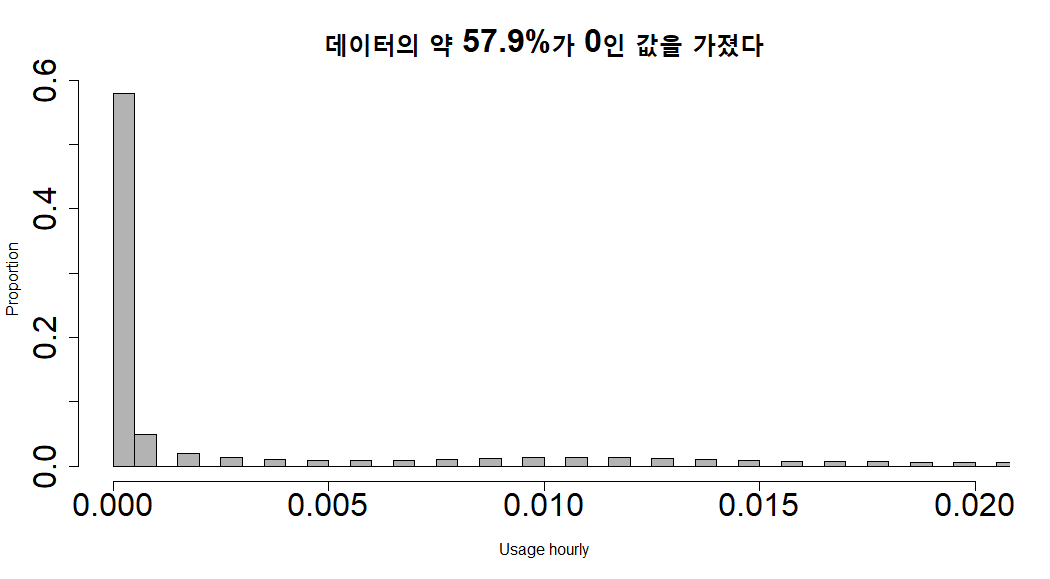
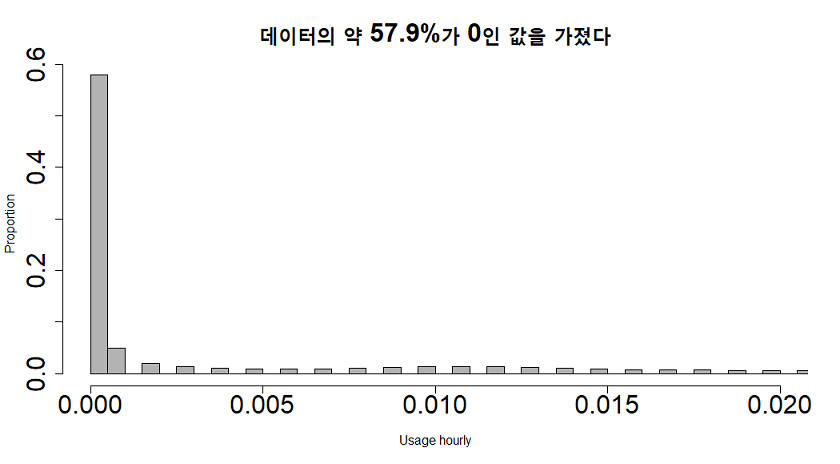
update kwater post
1. 이미지 크기 조정
2. 목차 링크 오타 수정

diff --git a/2018-07-17-수자원공사_공모전.md b/2018-07-17-수자원공사_공모전.md
@@ -18,7 +18,7 @@
     + [4-1. Quantile Regression](#4-1-quantile-regression)
     + [4-2. 의사결정나무 & 랜덤포레스트](#4-2-의사결정나무--랜덤포레스트)
     + [4-3. 시계열분석](#4-3-시계열-분석)
-- [5. 분석결과의 적용](#5--분석결과의-적용)
+- [5. 분석결과의 적용](#5-분석결과의-적용)
 - [Appendix](#appendix)
     + [A. 아쉬운 점들](#A-아쉬웠던-것들)
     + [B. 공모전을 통해 배운 것들](#B-공모전을-통해-배운-것들)
